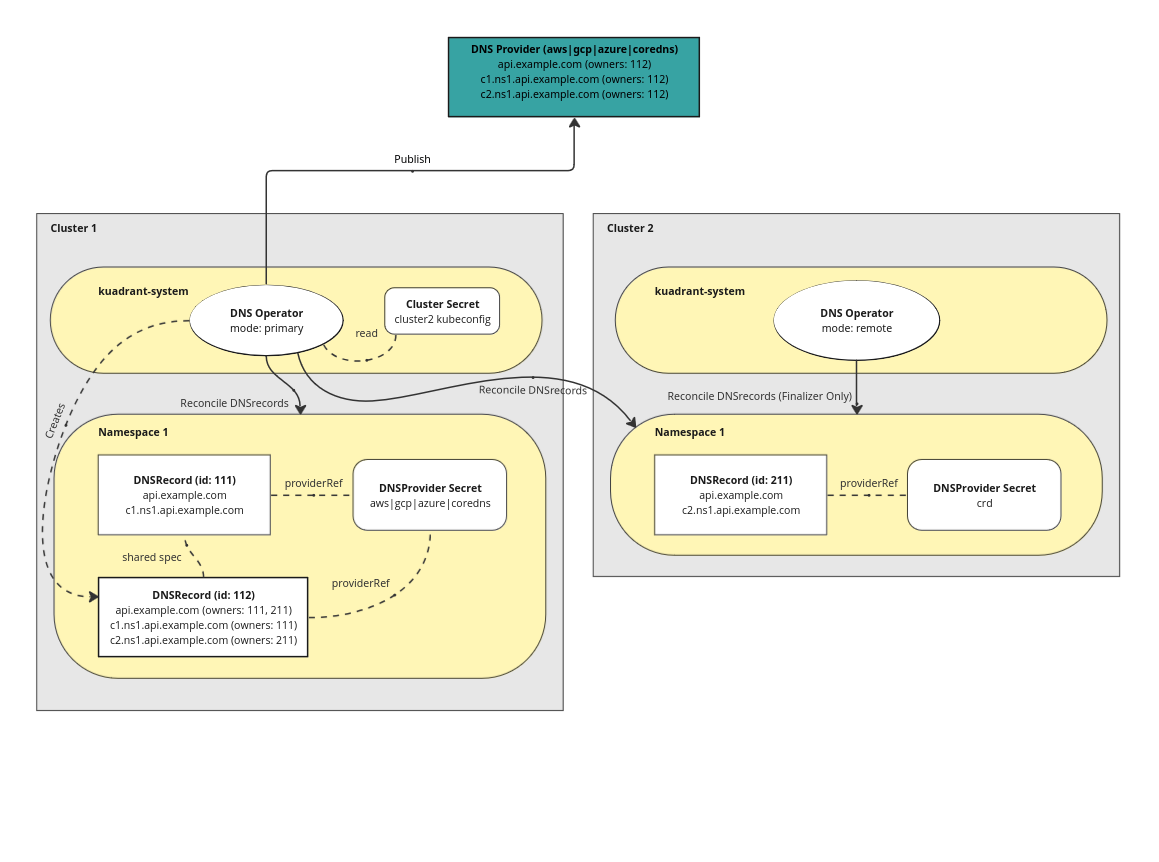
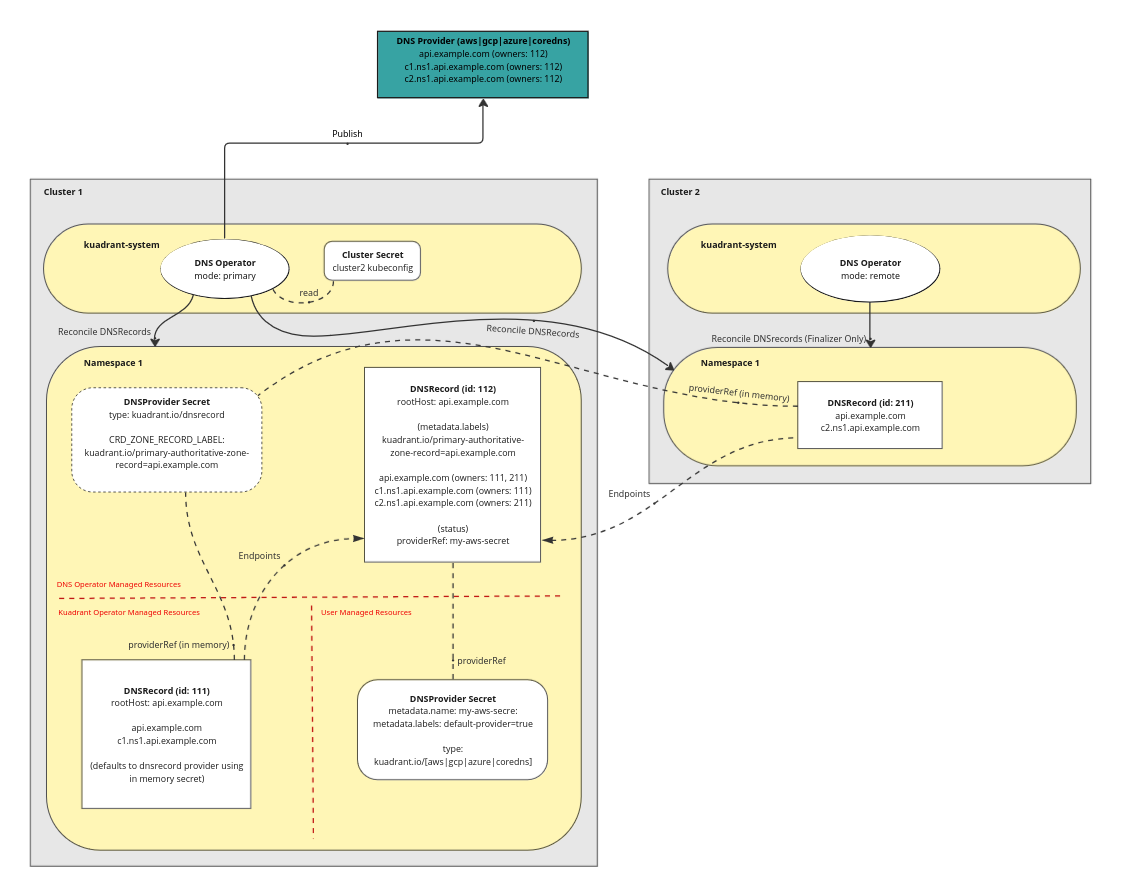
Update primary/remote mode details Add default provider secret concept Update primary/remote example diagram Update some reference level details, needs more still Rename crd provider to dnsrecord

diff --git a/rfcs/0000-dns-cluster-aware-delegation.md b/rfcs/0000-dns-cluster-aware-delegation.md
@@ -34,33 +34,36 @@ The mode will determine the behaviour of the reconciliation of all DNSRecords th
 ### Default (current behaviour)
 
 DNSRecords will be reconciled and published to the provider by this instance with no delegation, this is the same behaviour as the operator today and is the default mode used if none is specified.
-DNSRecords on these clusters must have access to valid provider credentials referenced in the spec.
+
 This mode should be selected for single cluster scenarios, and/or where the current approach to multi cluster is to be maintained.
 
 ### Primary
 
-DNSRecords will be reconciled and published to the provider by this instance through an authoritative DNSRecord which is created on behalf of the primary DNSRecord that all publishing requests are delegated to.
-DNSRecords on these clusters must have access to valid provider credentials referenced in the spec.
-The authoritative DNSRecord is created in the same namespace as the original DNSRecord (created by the DNSPolicy or otherwise) and at a minimum will contain the primary DNSRecords endpoints.
-The remaining specification of the authoritative DNSRecord is synced from the original primary DNSRecord (rootHost, providerRef etc..) 
-This mode should be selected for multi cluster scenarios where a designated "control plane" cluster(s) are being configured with elevated privileges to access external DNS providers.
+DNSRecords will be reconciled and published to the provider through an authoritative zone DNSRecord which is created on behalf of the primary DNSRecord with all publishing requests delegated to it.
+The dns operator will ensure the existence of the authoritative zone DNSRecord, with:
+  * the same `metdata.namespace` as the current record
+  * a `metadata.name` generated based on the current records `spec.rootHost` i.e. `foo-example-com_authoritative_zone`
+  * the same `spec.rootHost` as the current record
+  * a label that signals it is an authoritative zone record and the `rootHost` (zone dnsName) it's for i.e. `kuadrant.io/primary-authoritative-zone-record=foo.example.com`
+  * an empty `spec.providerRef` relying on the existence of a [default provider secret](#default-provider-secret) having been created in the same namespace.
+DNSRecords are not expected to have a `spec.providerRef` and any set will be ignored when reconciled. Internally an instance of the [dnsrecord provider](#dnsrecord-provider) will be loaded with the `CRD_ZONE_RECORD_LABEL` set to `kuadrant.io/primary-authoritative-zone-record=<$spec.RootHost>`.
+The above allows a DNSRecord to be reconciled using the created/existing authoritative zone DNSRecord as the target for all updates.
+
+This mode should be selected for multi cluster scenarios where this cluster is a designated "primary" cluster with elevated privileges to access external DNS providers.
 
 ### Remote
 
 DNSRecords will be reconciled by this instance, but only to maintain a finalizer on the resource. 
-The expectation is that a different "primary" cluster will reconcile the resource, adding its endpoints to the shared authoritative record, and update its status.
+DNSRecords are not expected to have a `providerRef` and any set will be ignored when reconciled on the corresponding primary clusters.
+The expectation is that a different "primary" cluster will reconcile the resource, adding its endpoints to the shared authoritative zone record on its cluster, and update its status.
 
-Note: While this concept is intended to work with the multi cluster concept described below, it is also possible to use this on a single cluster to combine several records together. 
-This might be desirable if you have many records and want to reduce the number of API calls to a provider and also the number of owner TXT records that need to be managed.
+This mode should be selected for multi cluster scenarios where this cluster is a "remote" non privileged cluster.
 
 ## Cluster Aware Controller
 
 The DNS reconciler can be made cluster aware allowing it to process DNSRecord resources on other clusters as well as its own.
-
 Making the controller aware of other clusters is done via specially labeled secret resources containing kubeconfig data that exist in the `kuadrant-system` namespace.
-
 The kubeconfig data should be generated from an appropriately scoped service account that exists on the target cluster.
-
 When a cluster secret is created, the DNS controller on that cluster will automatically detect it and start watching for DNSRecord resources on that external cluster as well as its own.
 
 **Example** Secret containing kubeconfig data
@@ -79,7 +82,30 @@ type: Opaque
 
 ## Namespace requirements for multi cluster
 
-ToDo Expectations of layout of namespaces and names of DNSRecords to match across clusters
+ToDo mnairn: Expectations of layout of namespaces and names of DNSRecords to match across clusters
+
+## Default Provider Secret
+
+A new concept of "default provider secret" will be introduced that removes the need for a `providerRef` to be specified on every DNSRecord and DNSPolicy.
+When a DNSPolicy is created with no `providerRef` the resulting DNSRecord during initial reconciliation will search for a default provider secret in the current namespace to use instead.
+The DNSRecord status will be updated to include the selected provider secret as a `providerRef` in the status.
+A default provider secret is any provider secret that has been appropriately labelled with the kuadrant default provider label (kuadrant.io/default-provider=true)
+Only one default provider can exist in any namespace and more than one labelled as such will result in an error (mnairn: I have actually no idea where????) 
+
+**Example** AWS Provider set as default
+```yaml
+apiVersion: v1
+kind: Secret
+data:
+  AWS_ACCESS_KEY_ID: xxx
+  AWS_SECRET_ACCESS_KEY: xxx
+metadata:
+  labels:
+    kuadrant.io/default-provider: "true"
+  name: my-provider-crd-secret
+  namespace: my-namespace
+type: kuadrant.io/aws
+```
 
 ## Example Configurations
 
@@ -87,27 +113,39 @@ ToDo Expectations of layout of namespaces and names of DNSRecords to match acros
 
 ![img.png](./0000-dns-cluster-aware-delegation-assets/multi-cluster-default-mode.png)
 
-**Primary/Remote Configuration.** Multi cluster using primary/remote modes and cluster aware controller
+**Primary/Remote Configuration.** Multi cluster using primary/remote modes, cluster aware controller and default provider secrets
 
 ![img.png](./0000-dns-cluster-aware-delegation-assets/multi-custer-primary-remote-cluster-aware.png)
-
 
 # Reference-level explanation
 [reference-level-explanation]: #reference-level-explanation
 
-## CRD Provider
+## Kuadrant Operator
 
-Add a new provider implementation (crd) that allows a DNSRecord resource to act as a central "zone" DNSRecord that can be updated by many other DNSRecord resources in matching namespaces.
+The only change required in the kuadrant operator is to allow the DNSPolices to be created with specifying any provider.
+In multi cluster scenarios using the dns operator in "primary" or "remote" modes, the use of a [default provider secret](#default-provider-secret) on the primary clusters will be required rendering any providerRef specified in the policy spec redundant. 
+
+### Changes required
+* Update the DNSPolicy API:
+  * allow empty `spec.providerRefs` value
+* Create the DNSRecord resource for each listener as normal, setting `dnsrecord.spec.providerRef` to nil if `dnspolicy.spec.providerRefs` is empty.  
+
+## DNS Operator
+
+### Add DNSRecord provider
+
+Add a new provider implementation (dnsrecord) that allows a DNSRecord resource to act as a central "zone" DNSRecord that can be updated by many other DNSRecord resources in matching namespaces.
 Endpoints from the source are injected into the target "zone" record using the same plan logic as all other providers in order to take advantage of already existing conflict resolution e.g. A vs CNAME record types for the same dns names.
 
 ![img.png](./0000-dns-cluster-aware-delegation-assets/crd-provider.png)
 
-### Changes required
+#### Changes required
 
 * Update the provider factory constructor logic to allow the kubeclient to optionally be passed to providers
-* Add a new provider called "crd" that implements the Provider interface 
-  * `provider.Records()` should be implemented to list all DNSRecords in the current namespace that match a given label selector (default: kuadrant.io/crd-provider-zone-record).
-    * The label selector should be configurable via data contained in the provider secret (i.e CRD_ZONE_RECORD_LABEL=my-own-label-selector)
+* Add a new provider called "dnsrecord" that implements the Provider interface 
+  * `provider.Records()` should be implemented to list all DNSRecords in the current namespace that match a given label selector (default: kuadrant.io/crd-provider-zone-record="true").
+    * The label selector should be configurable via data contained in the provider secret (e.g. CRD_ZONE_RECORD_LABEL=my-own-label="my-expected-label-value")
+    * The label selector should match exactly allowing it to be used in different scenarios where we might want a more specific match e.g. kuadrant.io/primary-authoritative-zone-record="api.example.com"  
   * `provider.DNSZones()` should return all DNSRecords with the configured label selector, transformed into `provider.DNSZone` resources
     * DNSZone.ID = DNSRecord.metadata.name
     * DNSZone.DNSName = DNSRecord.spec.rootHost
@@ -126,14 +164,23 @@ metadata:
 type: kuadrant.io/crd
 ```
 
-## Authority Delegation
+### Add authoritative record delegation support
 
-A new API on the DNSRecord that allows a DNSRecord (and DNSPolicy) to signal that it is delegating authority of publishing to another DNSRecord. 
-Internally uses the CRD provider described above to do this. 
-Assigns a role to the delegation, one of "primary" or "remote" to signal what this particular records role is. 
-Primary records will update/create the authoritative record on the same cluster and supply the provider credentials, remote records only update existing zone records.
+ToDO mnairn: Add updated details here
 
-## Multicluster
+### Allow default provider secret
+
+#### Changes required
+
+ToDO mnairn: Add updated details here
+
+* Update the DNSRecord API:
+  * make `spec.providerRef` optional
+  * add  `status.providerRef`
+
+### Update CoreDNS provider
+
+ToDO mnairn: Add updated details here
 
 Updates the dns operator to allow watches for DNSRecords on different clusters, ultimately allowing a single controller to reconcile DNSRecords from multiple clusters. 
 Clusters are configured via Secrets containing kubeconfig data and labelled as cluster secrets.
